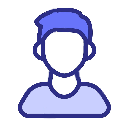
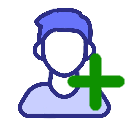
Fixed small bugs and added some features

Changed region(s): [[0.5, 0.4062, 1.0, 0.875]]

diff --git a/src/gui/subwindows/tournament_browser_window.py b/src/gui/subwindows/tournament_browser_window.py
@@ -11,17 +11,22 @@ from src.gui.subwindows.tournament_creation_window import TournamentCreationWind
 
 
 class TournamentBrowserWindow(BrowserWindow):
-    def __init__(self, parent, open_tournament: Callable, close_tournament: Callable):
+    def __init__(self, parent, open_tournament: Callable, close_tournament: Callable, auto_create=False):
         super().__init__(parent)
 
         self.title('Wszystkie Turnieje')
+        utils.center_window(self, (450, 300))
+        self.minsize(450, 100)
 
         self.open_tournament = open_tournament
         self.close_tournament = close_tournament
         self.tournaments = MainDB.load_tournaments()
 
-        self.table.set_columns(('#', 'Nazwa', 'Liczba Graczy'), (1, 10, 4))
+        self.table.set_columns(('#', 'Nazwa', 'Liczba Graczy', 'Data'), (1, 12, 5, 8))
         self.update_table()
+
+        if auto_create:
+            self.after(100, lambda: self.plus_btn())
 
     def make_action_bar(self):
         return utils.create_image_action_bar(self, [
@@ -34,7 +39,8 @@ class TournamentBrowserWindow(BrowserWindow):
         self.table.clear_rows()
 
         for i, tournament in enumerate(self.tournaments, start=1):
-            self.table.add_row(i, tournament.name, len(tournament.players))
+            date = tournament.started_date.strftime("%d %B %Y") if tournament.started_date is not None else ''
+            self.table.add_row(i, tournament.name, len(tournament.players), date)
 
         self.auto_save()
 
@@ -42,7 +48,7 @@ class TournamentBrowserWindow(BrowserWindow):
         def on_create(tournament):
             assert tournament.name not in [t.name for t in self.tournaments], WindowException(Config.ErrorMsg.TOURNAMENT_ALREADY_EXISTS)
 
-            self.tournaments.append(tournament)
+            self.tournaments.insert(0, tournament)
             self.update_table()
 
             self.open_tournament(tournament)

diff --git a/src/gui/main_window.py b/src/gui/main_window.py
@@ -75,6 +75,7 @@ class MainWindow(tk.Tk):
             return
 
         file_menu = tk.Menu(menubar, tearoff=0)
+        file_menu.add_command(label='Stwórz turniej', command=lambda: self.tournament_frame.browse_tournaments(create=True))
         file_menu.add_command(label='Przeglądaj turnieje', command=self.tournament_frame.browse_tournaments)
         file_menu.add_command(label='Zamknij turniej', command=self.tournament_frame.close_tournament)
         # file_menu.add_command(label='Eksportuj bazę danych', command=lambda: print('COMMING SOON'), state=tk.DISABLED)
@@ -95,7 +96,7 @@ class MainWindow(tk.Tk):
         set_result_menu.add_command(label='Czarny wygrał', command=lambda: self.tournament_frame.set_result(Result.Black))
         set_result_menu.add_command(label='Remis',         command=lambda: self.tournament_frame.set_result(Result.Draw))
         set_result_menu.add_command(label='Jeszcze grają', command=lambda: self.tournament_frame.set_result(Result.Playing))
-        tournament_menu.add_cascade(label='Ustaw wynik', menu=set_result_menu)
+        tournament_menu.add_cascade(label='Wynik', menu=set_result_menu)
 
         tournament_menu.add_command(label='Następna runda',        command=self.tournament_frame.next_round)
         tournament_menu.add_command(label='Zakończ turniej',  command=self.tournament_frame.end_tournament)

diff --git a/src/gui/action_bar_frame.py b/src/gui/action_bar_frame.py
@@ -22,7 +22,7 @@ class ActionBarListener(ABC):
     def remove_players(self): ...
 
     @abstractmethod
-    def browse_tournaments(self): ...
+    def browse_tournaments(self, create=False): ...
 
 
 class ActionBarFrame(tk.Frame):
@@ -36,7 +36,8 @@ class ActionBarFrame(tk.Frame):
 
     def make_gui(self):
         utils.create_image_action_bar(self, [
-            utils.Action('throphy.png', self.listener.browse_tournaments, tk.LEFT),
+            utils.Action('throphy.png', lambda: self.listener.browse_tournaments(create=True), tk.LEFT),
+            utils.Action('throphy_ended.png', self.listener.browse_tournaments, tk.LEFT),
             utils.Action('white_pawn.png', lambda: self.listener.set_result(Result.White), tk.CENTER),
             utils.Action('black_pawn.png', lambda: self.listener.set_result(Result.Black), tk.CENTER),
             utils.Action('draw_icon.png', lambda: self.listener.set_result(Result.Draw), tk.CENTER),
@@ -45,6 +46,7 @@ class ActionBarFrame(tk.Frame):
             utils.Action('player.png', self.listener.browse_players, tk.RIGHT),
             utils.Action('player_minus.png', self.listener.remove_players, tk.RIGHT),
         ], (50, 50), padx=20, tooltips=[
+            'Stwórz turniej',
             'Przeglądaj turnieje',
             'Białe wygrały',
             'Czarne wygrały',

diff --git a/src/gui/tournament/tournament_frame.py b/src/gui/tournament/tournament_frame.py
@@ -98,7 +98,7 @@ class TournamentFrame(tk.Frame, ActionBarListener):
             if players_count >= 2:
                 optimum = math.ceil(math.log(players_count, 2))
 
-                optimum_label = tk.Label(self, text=f'Optymalna ilość rund:\n{optimum}', bg='#bfbfbf', font=('Calibri', 9))
+                optimum_label = tk.Label(self, text=f'Minimalna ilość rund:\n{optimum}', bg='#bfbfbf', font=('Calibri', 9))
                 optimum_label.place(x=self.rounds_frame.winfo_width() // 2, rely=1, y=-25, anchor=tk.S)
 
                 self._info_labels.append(optimum_label)
@@ -209,8 +209,8 @@ class TournamentFrame(tk.Frame, ActionBarListener):
         self.pairs_frame.table.remove_selection()
         self._update_frame()
 
-    def browse_tournaments(self):
-        tournament_browser = TournamentBrowserWindow(self, self.open_tournament, self.close_tournament)
+    def browse_tournaments(self, create=False):
+        tournament_browser = TournamentBrowserWindow(self, self.open_tournament, self.close_tournament, auto_create=create)
         tournament_browser.focus()
 
     def open_tournament(self, tournament):

diff --git a/src/algorithms/tournament.py b/src/algorithms/tournament.py
@@ -1,5 +1,6 @@
 import logging
 from abc import ABC, abstractmethod
+from datetime import datetime
 from typing import Optional
 
 from src.algorithms.elo import elo_rating
@@ -10,6 +11,7 @@ from src.player import Player
 class Tournament(ABC):
     def __init__(self, name: str, players: list[Player]):
         self.name = name
+        self.started_date: Optional[datetime] = None
 
         self._players: list[Player] = []
         self._points: list[tuple] = []
@@ -162,6 +164,7 @@ class Tournament(ABC):
     def next_round(self):
         if not self._is_started:
             self._start_round()
+            self.started_date = datetime.now().astimezone()
             self._is_started = True
             return
 

diff --git a/src/gui/subwindows/browser_window.py b/src/gui/subwindows/browser_window.py
@@ -12,8 +12,6 @@ class BrowserWindow(tk.Toplevel, ABC):
         super().__init__(parent)
 
         self.iconbitmap(Config.WINDOW_ICON_PATH)
-        utils.center_window(self, (300, 300))
-        self.minsize(300, 100)
 
         self.table = utils.Table(self, style_prefix='browser_window')
         self.table.place(x=0, y=0, relheight=1, height=-ACTION_BAR_HEIGHT, relwidth=1)

diff --git a/src/main.py b/src/main.py
@@ -1,4 +1,5 @@
 import logging
+import locale
 
 from src.config import Config
 from src.gui.main_window import MainWindow
@@ -12,6 +13,8 @@ def main():
         filename=Config.LOG_FILE)
 
     logging.getLogger("PIL.PngImagePlugin").setLevel(logging.CRITICAL + 1)
+
+    locale.setlocale(locale.LC_TIME, 'PL_pl')
 
     MainWindow().mainloop()
 

diff --git a/src/gui/subwindows/player_browser_window.py b/src/gui/subwindows/player_browser_window.py
@@ -18,6 +18,8 @@ class PlayerBrowserWindow(BrowserWindow):
         super().__init__(parent)
 
         self.title('Wszyscy gracze')
+        utils.center_window(self, (300, 300))
+        self.minsize(300, 100)
 
         self.add_to_tournament = add_to_tournament
         self.players = MainDB.load_players()
